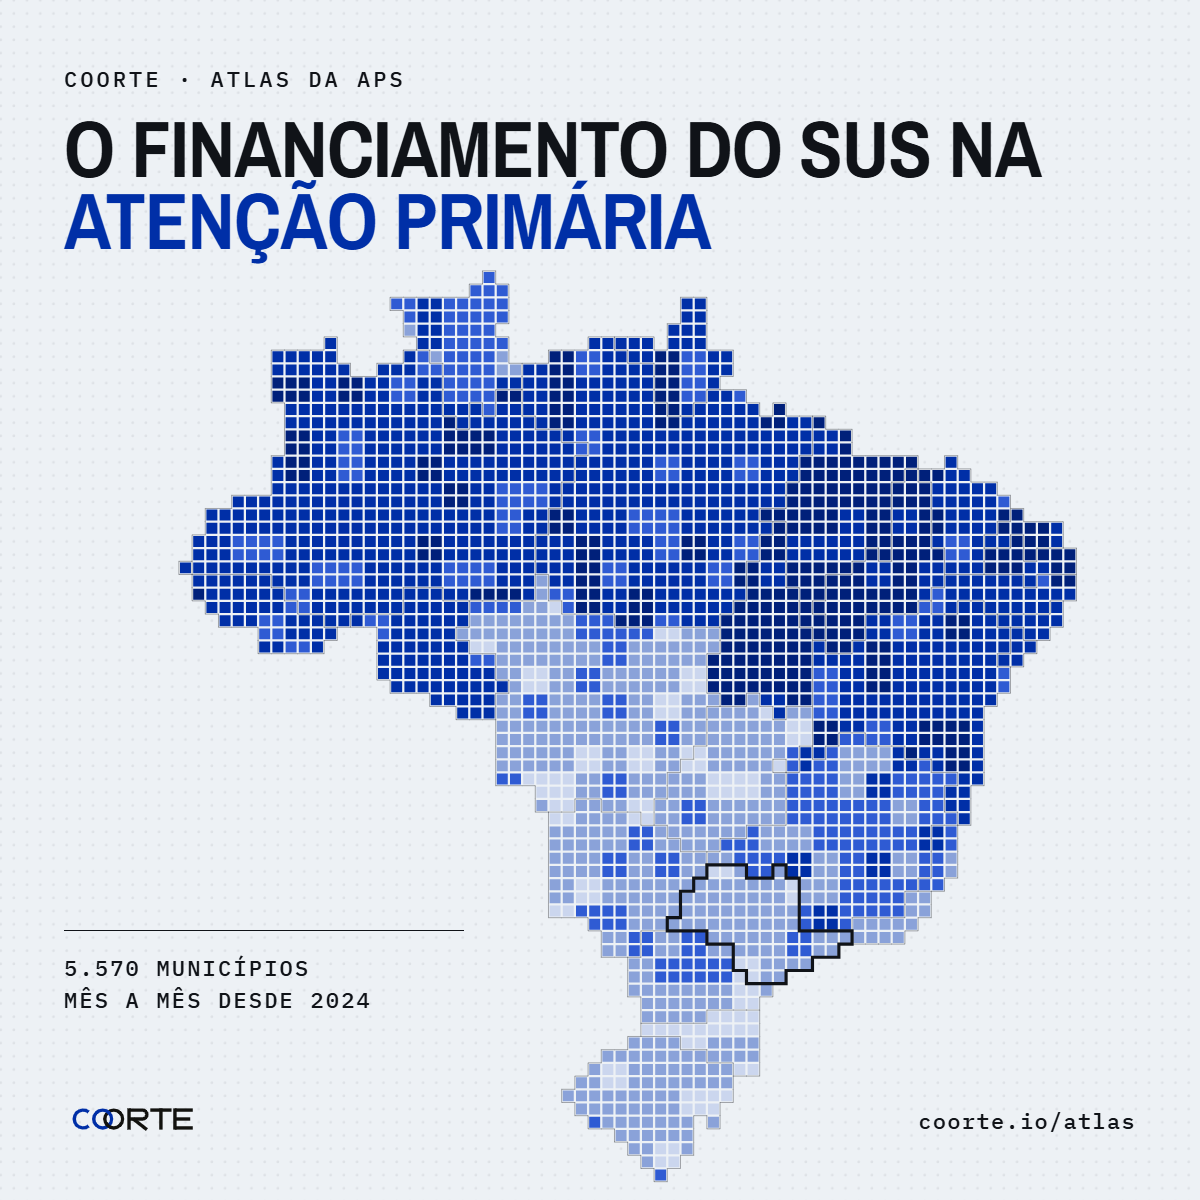
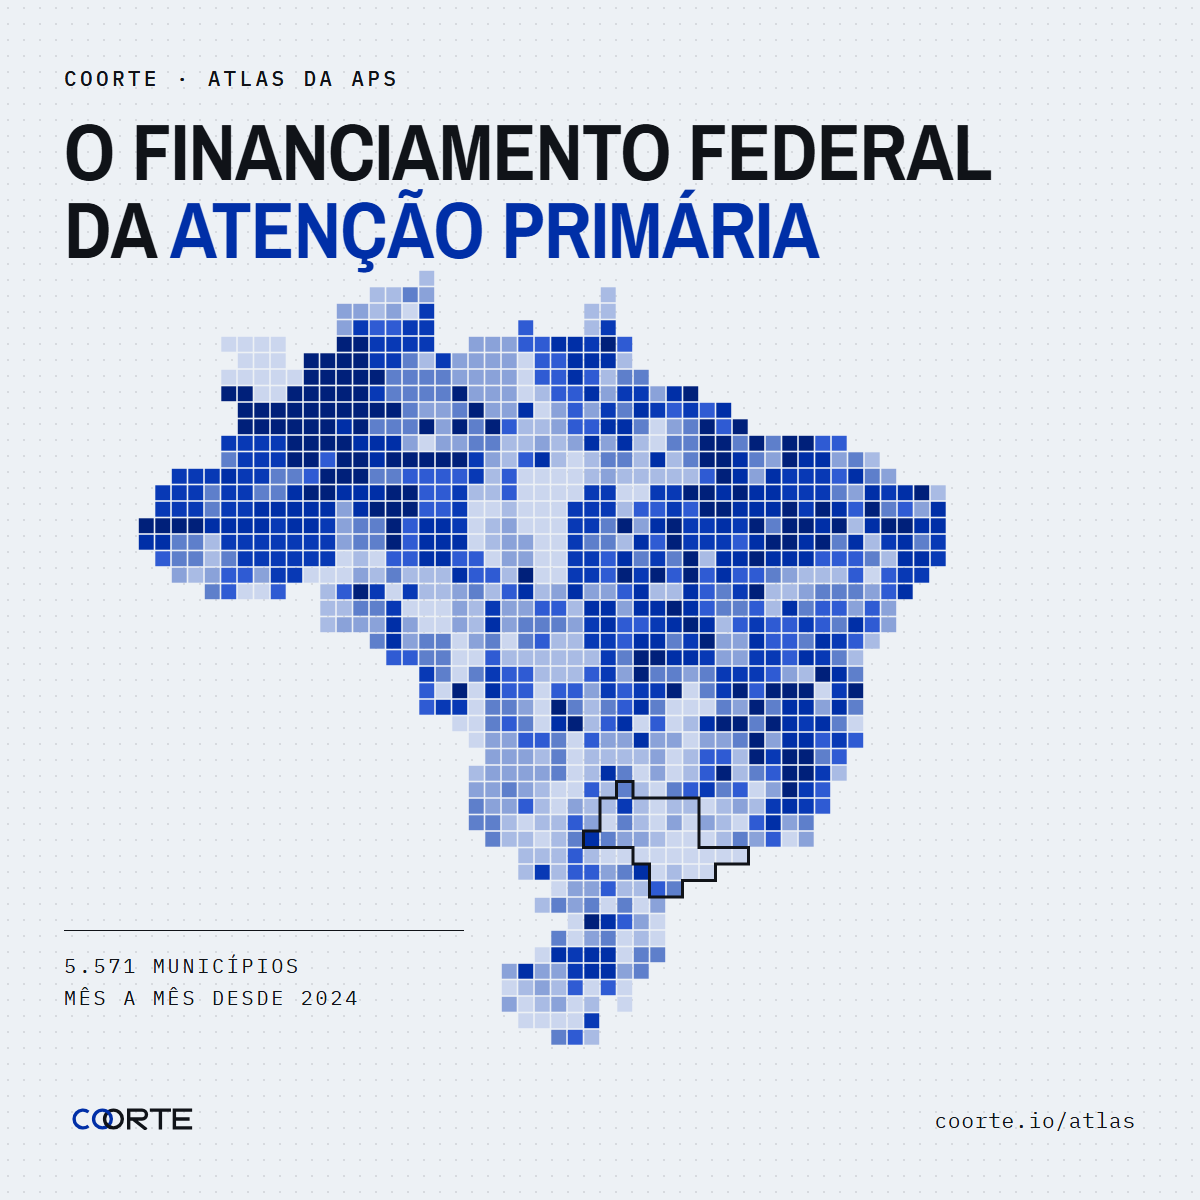
Atlas: imagens de pré-visualização com 'financiamento federal' e 5.571 municípios; gerador versionado (atlas/web/og)

diff --git a/atlas/web/index.src.html b/atlas/web/index.src.html
@@ -17,10 +17,10 @@
 <meta property="og:url" content="https://coorte.io/atlas/">
 <meta property="og:title" content="Atlas da APS · O financiamento federal da atenção primária">
 <meta property="og:description" content="Repasse federal da APS a cada município do Brasil, mês a mês desde 2024. Em São Paulo, também o IGM SUS Paulista e a situação de cada equipe. Não inclui recursos próprios das prefeituras.">
-<meta property="og:image" content="https://coorte.io/atlas/og-atlas-1200x630.png">
+<meta property="og:image" content="https://coorte.io/atlas/og-atlas-1200x630.png?v=2">
 <meta property="og:image:width" content="1200">
 <meta property="og:image:height" content="630">
-<meta property="og:image:alt" content="Mapa do Brasil em pixels azuis com o título: o financiamento do SUS na atenção primária">
+<meta property="og:image:alt" content="Mapa do Brasil em pixels azuis com o título: o financiamento federal da atenção primária">
 <meta name="twitter:card" content="summary_large_image">
 <script type="application/ld+json">
 {"@context":"https://schema.org","@type":"Dataset","name":"Atlas da APS: financiamento federal da atenção primária por município",
@@ -29,7 +29,7 @@
  "creator":{"@type":"Organization","name":"Coorte","url":"https://coorte.io/"},
  "spatialCoverage":{"@type":"Place","name":"Brasil"},"temporalCoverage":"2024-05/..",
  "isBasedOn":["https://relatorioaps.saude.gov.br/","https://nies.saude.sp.gov.br/","https://cnes.datasus.gov.br/"],
- "image":["https://coorte.io/atlas/og-atlas-1200x630.png","https://coorte.io/atlas/og-atlas-1200x900.png","https://coorte.io/atlas/og-atlas-1200x1200.png"]}
+ "image":["https://coorte.io/atlas/og-atlas-1200x630.png?v=2","https://coorte.io/atlas/og-atlas-1200x900.png?v=2","https://coorte.io/atlas/og-atlas-1200x1200.png?v=2"]}
 </script>
 <link rel="preconnect" href="https://fonts.googleapis.com">
 <link rel="preconnect" href="https://fonts.gstatic.com" crossorigin>

diff --git a/marca_coorte/site/atlas/index.html b/marca_coorte/site/atlas/index.html
@@ -17,10 +17,10 @@
 <meta property="og:url" content="https://coorte.io/atlas/">
 <meta property="og:title" content="Atlas da APS · O financiamento federal da atenção primária">
 <meta property="og:description" content="Repasse federal da APS a cada município do Brasil, mês a mês desde 2024. Em São Paulo, também o IGM SUS Paulista e a situação de cada equipe. Não inclui recursos próprios das prefeituras.">
-<meta property="og:image" content="https://coorte.io/atlas/og-atlas-1200x630.png">
+<meta property="og:image" content="https://coorte.io/atlas/og-atlas-1200x630.png?v=2">
 <meta property="og:image:width" content="1200">
 <meta property="og:image:height" content="630">
-<meta property="og:image:alt" content="Mapa do Brasil em pixels azuis com o título: o financiamento do SUS na atenção primária">
+<meta property="og:image:alt" content="Mapa do Brasil em pixels azuis com o título: o financiamento federal da atenção primária">
 <meta name="twitter:card" content="summary_large_image">
 <script type="application/ld+json">
 {"@context":"https://schema.org","@type":"Dataset","name":"Atlas da APS: financiamento federal da atenção primária por município",
@@ -29,7 +29,7 @@
  "creator":{"@type":"Organization","name":"Coorte","url":"https://coorte.io/"},
  "spatialCoverage":{"@type":"Place","name":"Brasil"},"temporalCoverage":"2024-05/..",
  "isBasedOn":["https://relatorioaps.saude.gov.br/","https://nies.saude.sp.gov.br/","https://cnes.datasus.gov.br/"],
- "image":["https://coorte.io/atlas/og-atlas-1200x630.png","https://coorte.io/atlas/og-atlas-1200x900.png","https://coorte.io/atlas/og-atlas-1200x1200.png"]}
+ "image":["https://coorte.io/atlas/og-atlas-1200x630.png?v=2","https://coorte.io/atlas/og-atlas-1200x900.png?v=2","https://coorte.io/atlas/og-atlas-1200x1200.png?v=2"]}
 </script>
 <link rel="preconnect" href="https://fonts.googleapis.com">
 <link rel="preconnect" href="https://fonts.gstatic.com" crossorigin>

diff --git a/atlas/web/og/gerar_og.py b/atlas/web/og/gerar_og.py
@@ -1,0 +1,157 @@
+"""Imagens de pré-visualização do Atlas da APS (Open Graph, Google): 1200x630 (png e jpg), 1200x900 e 1200x1200.
+
+Mapa em pixels do Brasil, cada pixel com a cor do município que contém o seu centro: repasse federal da APS
+por habitante nos 12 meses até a última parcela (mesma rampa do atlas). Contorno de SP em destaque.
+Lê o JSON montado pelo build (ATLAS_HOME/site), monta uma página por formato e fotografa com o Chrome headless.
+
+    ATLAS_HOME=atlas/_dados python atlas/web/og/gerar_og.py
+Saída: marca_coorte/site/atlas/og-atlas-*.png|jpg
+"""
+import gzip, json, os, shutil, subprocess, sys, tempfile
+from pathlib import Path
+import numpy as np
+from matplotlib.path import Path as MPath
+from PIL import Image
+
+AQUI = Path(__file__).resolve().parent
+RAIZ = AQUI.parents[2]
+H = Path(os.environ.get('ATLAS_HOME', RAIZ / 'atlas/_dados')) / 'site'
+DEST = RAIZ / 'marca_coorte/site/atlas'
+RAMP = ['#CBD6EE', '#A9BBE4', '#8AA2D9', '#5E7FCB', '#2F5BD3', '#0839B5', '#002FA7', '#00207A']
+CHROME = os.environ.get('CHROME') or next((p for p in (
+    r'C:\Program Files\Google\Chrome\Application\chrome.exe', '/usr/bin/google-chrome', '/usr/bin/chromium',
+    '/Applications/Google Chrome.app/Contents/MacOS/Google Chrome') if Path(p).exists()), 'chrome')
+
+
+def load(p):
+    b = Path(p).read_bytes()
+    try: return json.loads(gzip.decompress(b))
+    except OSError: return json.loads(b)
+
+
+def rings_of(g):   # anéis em pares (lon, lat) × 1000; aceita lista de anéis ou lista de polígonos
+    if g and isinstance(g[0], (int, float)): return [g]
+    return [r for x in g for r in rings_of(x)]
+
+
+br = load(H / 'br.json'); meta = br['meta']; P = meta['parc']; i = len(P) - 1
+pop_i = (meta.get('pop_i') or {}).get('parc')
+MUN = []   # (cod, uf, valor, [Path...], bbox)
+for uf in sorted(br['ufn']):
+    d = load(H / 'uf' / f'{uf}.json')
+    for cod, rings in d['geo'].items():
+        m = d['mun'].get(cod)
+        if not m: continue
+        pop = (m.get('pa') or [None])[pop_i[i]] if pop_i and m.get('pa') else m.get('pop')
+        tot = m['f']['tot'][i - 11:i + 1]
+        v = sum(x or 0 for x in tot) / pop if pop and len(tot) == 12 else None
+        paths = [MPath(np.array(r, float).reshape(-1, 2) / 1000) for r in rings_of(rings)]
+        xy = np.vstack([p.vertices for p in paths])
+        MUN.append((cod, uf, v, paths, (*xy.min(0), *xy.max(0))))
+n_mun = len(MUN)
+
+
+def grade(cols):
+    """Rasteriza o Brasil numa grade com `cols` colunas: devolve lista de (col, lin, cor, é_SP) e o nº de linhas."""
+    x0, y0 = min(b[4][0] for b in MUN), min(b[4][1] for b in MUN)
+    x1, y1 = max(b[4][2] for b in MUN), max(b[4][3] for b in MUN)
+    step = (x1 - x0) / cols
+    rows = int(np.ceil((y1 - y0) / step))
+    cx = x0 + (np.arange(cols) + .5) * step; cy = y1 - (np.arange(rows) + .5) * step
+    gx, gy = np.meshgrid(cx, cy); pts = np.c_[gx.ravel(), gy.ravel()]
+    dono = np.full(len(pts), -1)
+    for k, (_, _, _, paths, (a, b, c, e)) in enumerate(MUN):
+        sel = np.where((dono < 0) & (pts[:, 0] >= a) & (pts[:, 0] <= c) & (pts[:, 1] >= b) & (pts[:, 1] <= e))[0]
+        if not len(sel): continue
+        dentro = np.zeros(len(sel), bool)
+        for p in paths: dentro ^= p.contains_points(pts[sel])   # par-ímpar: buracos e ilhas
+        dono[sel[dentro]] = k
+    vals = np.array([MUN[k][2] if k >= 0 and MUN[k][2] is not None else np.nan for k in dono])
+    ok = ~np.isnan(vals)
+    cortes = np.quantile(vals[ok], np.linspace(0, 1, len(RAMP) + 1)[1:-1])
+    cel = []
+    for j, k in enumerate(dono):
+        if k < 0: continue
+        cor = RAMP[int(np.searchsorted(cortes, vals[j]))] if ok[j] else RAMP[0]
+        cel.append((j % cols, j // cols, cor, MUN[k][1] == '35'))
+    return cel, rows
+
+
+def svg_mapa(cols, cell, gap):
+    cel, rows = grade(cols)
+    w, h = cols * cell, rows * cell
+    rect = ''.join(f'<rect x="{c * cell + gap / 2:.1f}" y="{r * cell + gap / 2:.1f}" width="{cell - gap:.1f}" height="{cell - gap:.1f}" fill="{cor}"/>'
+                   for c, r, cor, _ in cel)
+    sp = {(c, r) for c, r, _, s in cel if s}   # contorno de SP: arestas entre célula de SP e vizinha fora de SP
+    seg = []
+    for c, r in sp:
+        if (c, r - 1) not in sp: seg.append(f'M{c * cell} {r * cell}h{cell}')
+        if (c, r + 1) not in sp: seg.append(f'M{c * cell} {(r + 1) * cell}h{cell}')
+        if (c - 1, r) not in sp: seg.append(f'M{c * cell} {r * cell}v{cell}')
+        if (c + 1, r) not in sp: seg.append(f'M{(c + 1) * cell} {r * cell}v{cell}')
+    return (f'<svg width="{w}" height="{h}" viewBox="0 0 {w} {h}" xmlns="http://www.w3.org/2000/svg">'
+            f'<g>{rect}</g>'
+            f'<path d="{"".join(seg)}" fill="none" stroke="#101318" stroke-width="3" stroke-linecap="square"/></svg>')
+
+
+LOGO = '''<svg class="logo" viewBox="108 28 570 104"><g fill="none" stroke-width="16" stroke-linecap="butt" stroke-linejoin="miter">
+<path stroke="#101318" d="M 304 38 A 42 42 0 1 1 304 122 A 42 42 0 1 1 304 38"/><path stroke="#002FA7" d="M 252 38 A 42 42 0 1 1 252 122 A 42 42 0 1 1 252 38"/>
+<clipPath id="c"><circle cx="278" cy="112.98" r="19"/></clipPath><path stroke="#101318" d="M 304 38 A 42 42 0 1 1 304 122 A 42 42 0 1 1 304 38" clip-path="url(#c)"/>
+<path stroke="#002FA7" d="M 185.86 46.9 A 42 42 0 1 0 185.86 113.1"/>
+<path stroke="#101318" d="M 376 30 L 376 130 M 376 38 L 439 38 A 21 21 0 0 1 439 80 L 376 80 M 396 80 L 460 130 M 476 38 L 576 38 M 526 30 L 526 130 M 592 30 L 592 130 M 592 38 L 676 38 M 592 80 L 664 80 M 592 122 L 676 122"/></g></svg>'''
+
+CSS = '''@import url("https://fonts.googleapis.com/css2?family=Archivo+Narrow:wght@700&family=IBM+Plex+Mono:wght@400;500&display=block");
+*{margin:0;padding:0;box-sizing:border-box}
+html,body{width:WPX;height:HPX;overflow:hidden}
+body{background:#EDF1F5;background-image:radial-gradient(rgba(16,19,24,.10) 1px,transparent 1.2px);background-size:16px 16px;position:relative;color:#101318}
+.k{font:500 21px/1 "IBM Plex Mono",monospace;letter-spacing:.16em;text-transform:uppercase;position:absolute}
+h1{font:700 FSpx/.98 "Archivo Narrow",sans-serif;text-transform:uppercase;letter-spacing:-.01em;position:absolute}
+h1 em{font-style:normal;color:#002FA7}
+.rule{position:absolute;height:1px;background:#101318}
+.s{font:400 20px/1.6 "IBM Plex Mono",monospace;letter-spacing:.14em;text-transform:uppercase;position:absolute}
+.u{font:400 21px/1 "IBM Plex Mono",monospace;letter-spacing:.04em;position:absolute}
+.logo{position:absolute;height:22px;width:auto}
+.map{position:absolute}'''
+
+NUM = f'{n_mun:,}'.replace(',', '.')
+FORMATOS = {
+    '1200x630': dict(w=1200, h=630, fs=62, cols=44, cell=13, gap=1.4, html=f'''
+<div class="map" style="right:-8px;top:12px">MAPA</div>
+<div class="k" style="left:64px;top:68px">Coorte · Atlas da APS</div>
+<div class="rule" style="left:296px;top:272px;width:470px"></div>
+<h1 style="left:296px;top:294px">O financiamento<br>federal da<br><em>atenção primária</em></h1>
+<div class="s" style="left:296px;top:500px">{NUM} municípios · mês a mês desde 2024</div>
+<div class="u" style="left:296px;top:545px">coorte.io/atlas</div>
+{LOGO.replace('class="logo"', 'class="logo" style="left:72px;top:541px"')}'''),
+    '1200x900': dict(w=1200, h=900, fs=80, cols=40, cell=14.5, gap=1.5, html=f'''
+<div class="map" style="right:20px;bottom:24px">MAPA</div>
+<div class="k" style="left:64px;top:68px">Coorte · Atlas da APS</div>
+<h1 style="left:64px;top:112px">O financiamento federal<br>da <em>atenção primária</em></h1>
+<div class="rule" style="left:64px;top:690px;width:360px"></div>
+<div class="s" style="left:64px;top:710px">{NUM} municípios<br>mês a mês desde 2024</div>
+{LOGO.replace('class="logo"', 'class="logo" style="left:72px;top:826px"')}
+<div class="u" style="right:64px;top:826px">coorte.io/atlas</div>'''),
+    '1200x1200': dict(w=1200, h=1200, fs=80, cols=56, cell=16.5, gap=1.6, html=f'''
+<div class="map" style="left:50%;transform:translateX(-50%);top:270px">MAPA</div>
+<div class="k" style="left:64px;top:68px">Coorte · Atlas da APS</div>
+<h1 style="left:64px;top:112px">O financiamento federal<br>da <em>atenção primária</em></h1>
+<div class="rule" style="left:64px;top:930px;width:400px"></div>
+<div class="s" style="left:64px;top:950px">{NUM} municípios<br>mês a mês desde 2024</div>
+{LOGO.replace('class="logo"', 'class="logo" style="left:72px;top:1108px"')}
+<div class="u" style="right:64px;top:1110px">coorte.io/atlas</div>'''),
+}
+
+tmp = Path(tempfile.mkdtemp(prefix='og_atlas_'))
+for nome, f in FORMATOS.items():
+    css = CSS.replace('WPX', f"{f['w']}px").replace('HPX', f"{f['h']}px").replace('FS', str(f['fs']))
+    html = f'<!doctype html><meta charset="utf-8"><style>{css}</style><body>{f["html"].replace("MAPA", svg_mapa(f["cols"], f["cell"], f["gap"]))}</body>'
+    src = tmp / f'{nome}.html'; src.write_text(html, encoding='utf-8')
+    png = DEST / f'og-atlas-{nome}.png'
+    subprocess.run([CHROME, '--headless=new', '--disable-gpu', '--hide-scrollbars', '--force-device-scale-factor=1',
+                    f'--window-size={f["w"]},{f["h"]}', '--virtual-time-budget=8000', f'--screenshot={png}', src.as_uri()],
+                   check=True, capture_output=True)
+    Image.open(png).convert('RGB').save(png, optimize=True)
+    print(png.name, Image.open(png).size)
+Image.open(DEST / 'og-atlas-1200x630.png').convert('RGB').save(DEST / 'og-atlas-1200x630.jpg', quality=88, optimize=True)
+print('og-atlas-1200x630.jpg;', n_mun, 'municípios; parcela', P[i])
+shutil.rmtree(tmp, ignore_errors=True)
